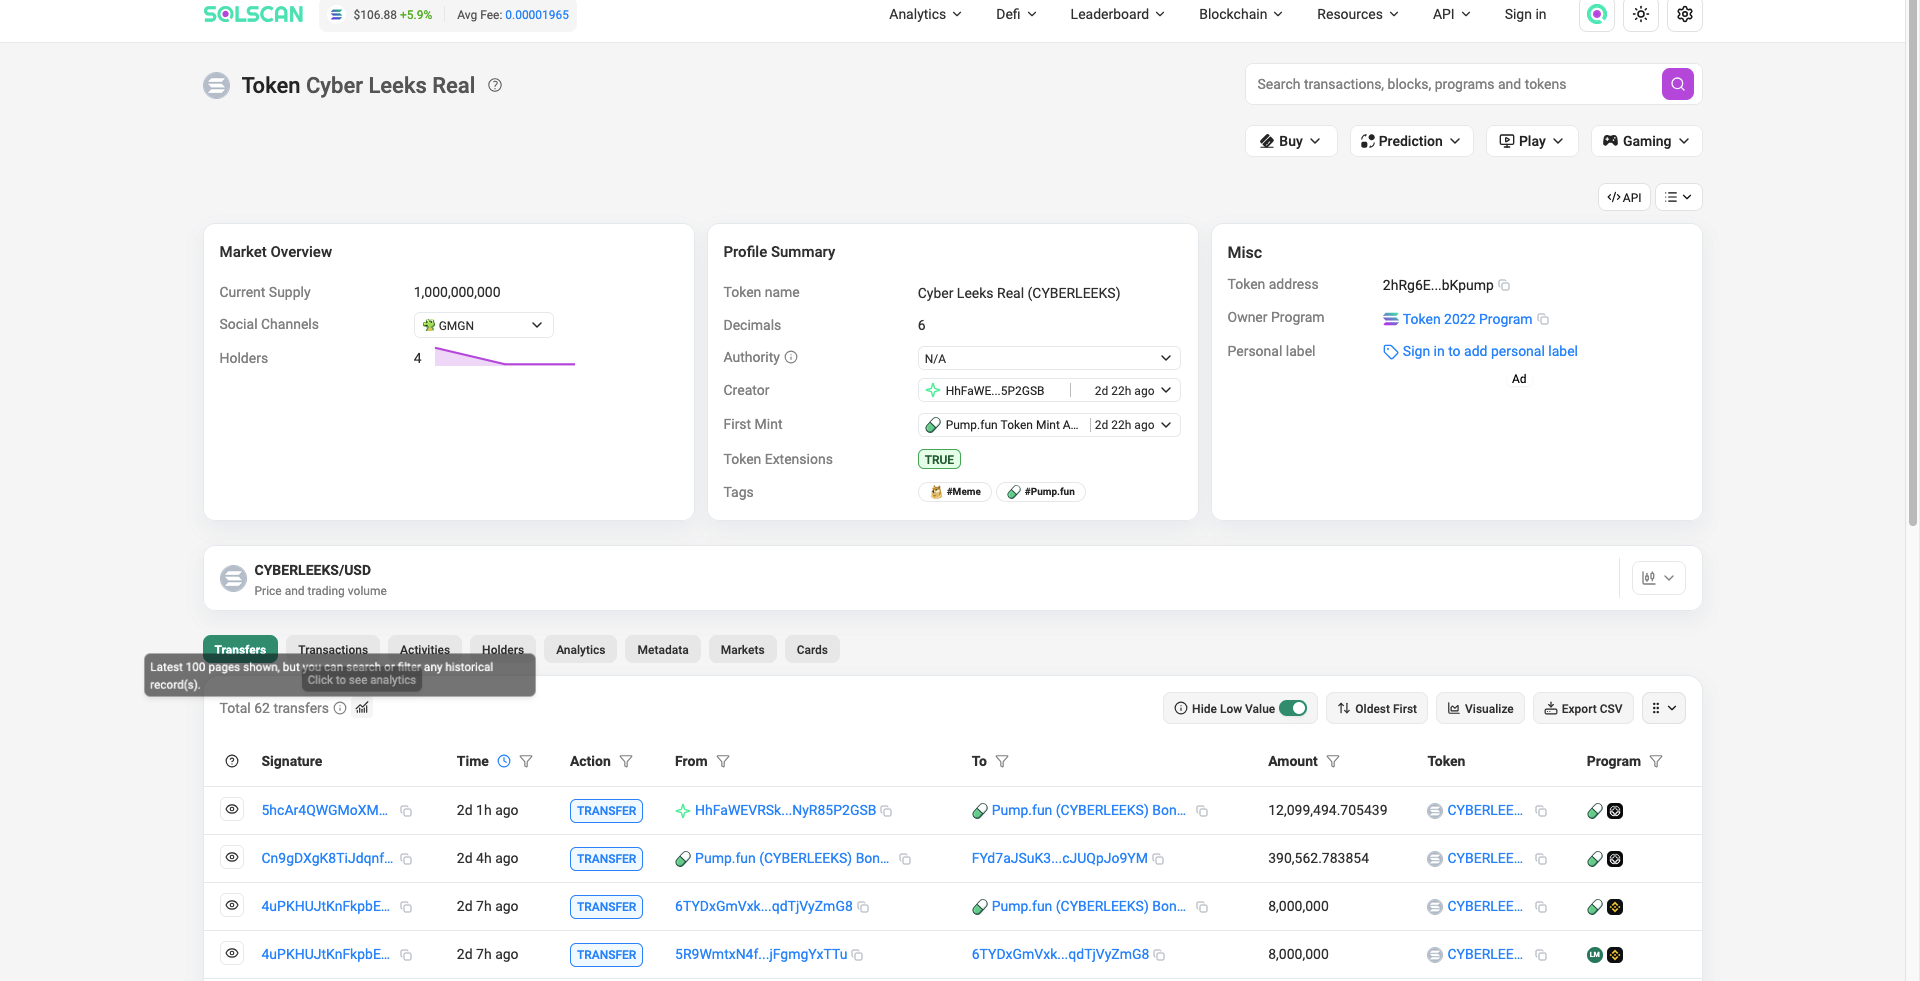
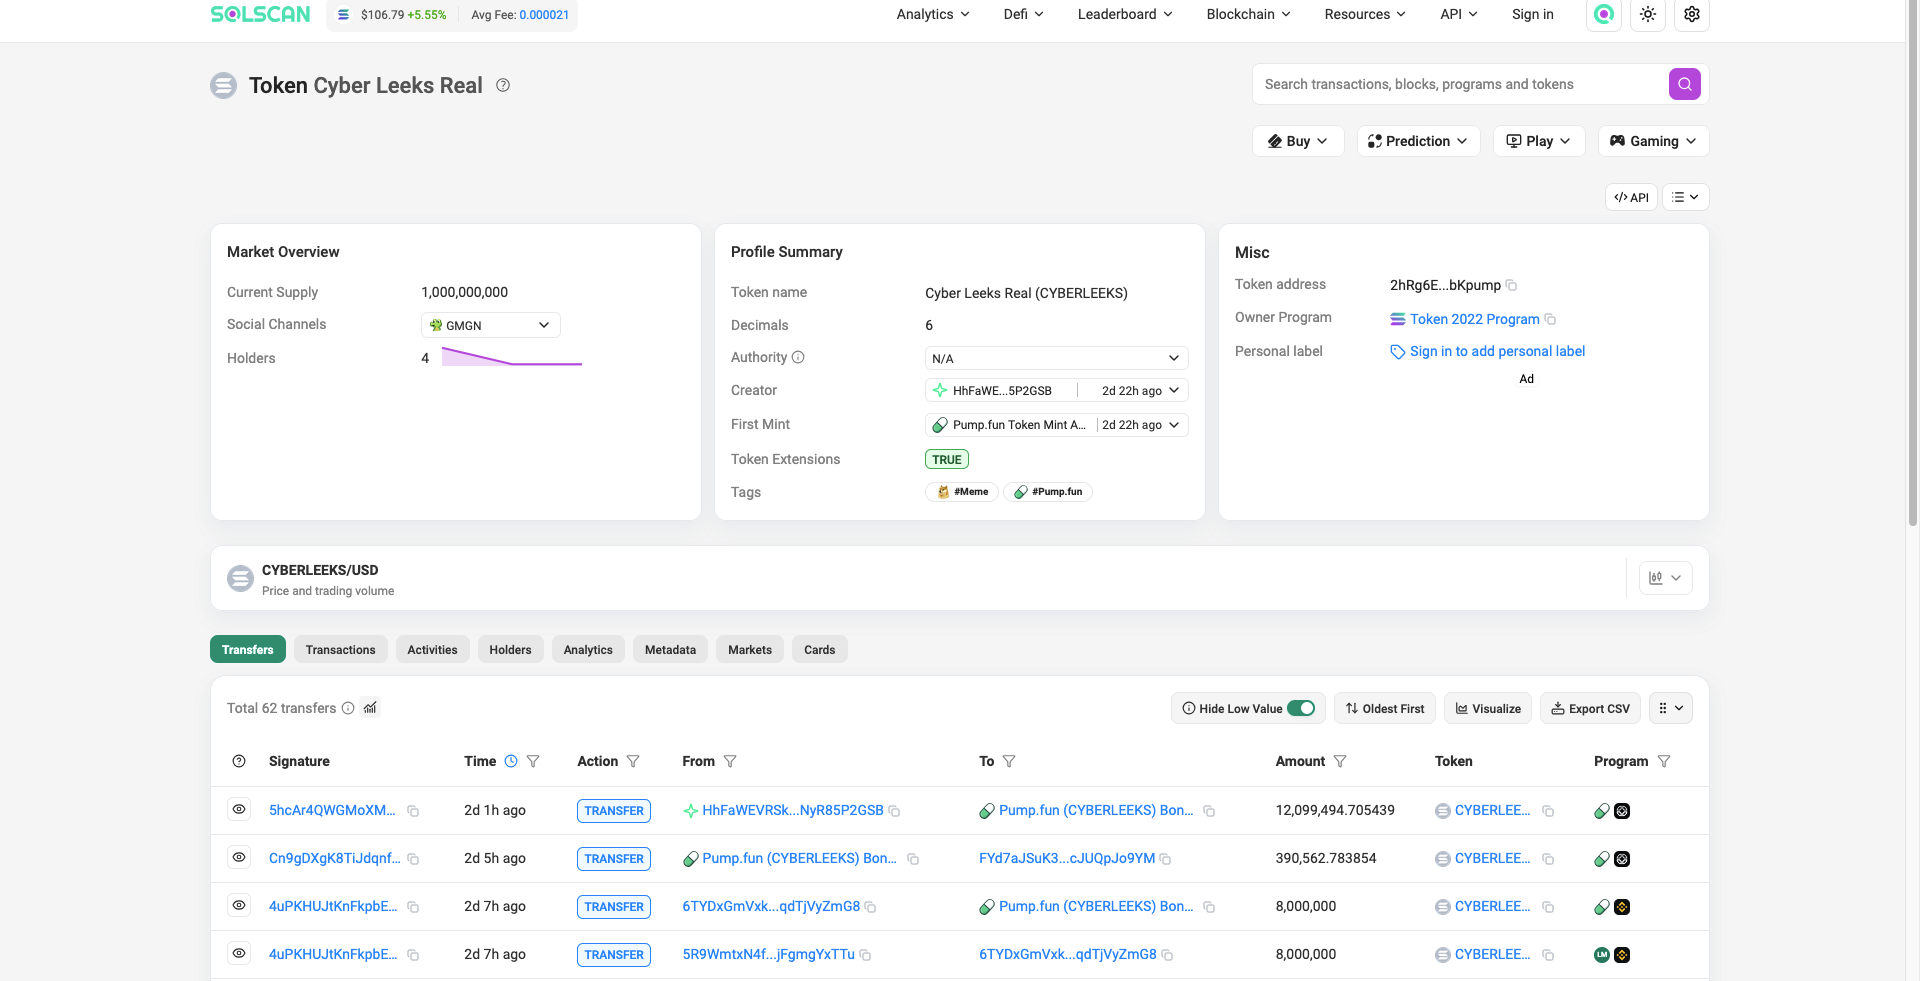
crypto: correct money trail to on-chain evidence (CoW DEX swap, not Base bridge); refresh token screenshot; clean infra recon note; rebuild evidence manifest

diff --git a/crypto/README.md b/crypto/README.md
@@ -49,17 +49,23 @@ The cash-out signal that is impossible to fake is the account nonce
 (`eth_getTransactionCount`): when it increments, the wallet has sent a
 transaction. Watching the nonce is how the live cash-out was caught.
 
-**5. USDC and the bridge to Base.**
-On Ethereum the proceeds are converted to USDC and bridged to the Base
-network (Ethereum L2).
+**5. Convert and swap on Ethereum (USDC via CoW Protocol).**
+On Ethereum the proceeds are consolidated into `0xbb22f5c5...` and moved
+between ETH and USDC. On **2026-08-27T06:36Z** the wallet routed
+**1,051.59 USDC** into **CoW Protocol**, a DEX aggregator (settlement
+contract `0x9008D19f58AAbD9eD0D60971565AA8510560ab41`), swapping it
+on-chain. A DEX batch-auction swap breaks the direct input-to-output link
+by design, so what comes out, and whether it stays on Ethereum or is
+routed onward, is not determinable from the deposit alone.
 
 **6. The wall.**
-On Base the funds enter shared custodial payment infrastructure
-(automated x402 / Coinbase-style payment rails). At that point they mix
-with large volumes of unrelated traffic and can no longer be followed
-individually from public data. This is the honest limit of an outside
-trace. Note it, do not fake past it. The identity is now inside a
-custodian's private records, not on the ledger.
+After the DEX swap the individual trail goes cold from public data. At
+collection, `0xbb22f5c5...` still held 0.877 ETH and `0x8bEe4D7b...` was
+drained (nonce 18). What comes out of a batch-auction DEX swap is not
+linkable to the input from the ledger alone, and whatever exchange or
+custodian the operator ultimately cashes out to holds the identity in its
+private records. This is the honest limit of an outside trace. Note it,
+do not fake past it.
 
 ## Flow diagram
 
@@ -67,9 +73,8 @@ custodian's private records, not on the ledger.
 flowchart TD
     A["CYBERLEEKS token (Solana)<br/>2hRg6E...Kpump"] -->|peel chain| B["intermediate wallets"]
     B -->|"swap order 03772c77<br/>SOL to ETH"| C["ETH cash-out wallets<br/>0xbb22f5c5... / 0x8bEe4D7b..."]
-    C -->|convert to USDC| D["USDC on Ethereum"]
-    D -->|bridge| E["Base network"]
-    E --> F["shared custodial payment infrastructure<br/>trace ends: private records"]
+    C -->|"convert ETH / USDC"| D["USDC + ETH consolidated<br/>0xbb22f5c5..."]
+    D -->|"CoW Protocol DEX swap<br/>2026-08-27 · 1,051 USDC"| E["trail goes cold<br/>output not linkable · identity in custodian records"]
 ```
 
 ## Indicators
@@ -80,8 +85,9 @@ flowchart TD
 | Token deployer wallet | `HhFaWEVRSktrUo3TnUdVrDmE6LHbkEi5rwNyR85P2GSB` |
 | ETH cash-out wallet | `0xbb22f5c5e6e3086c248d80929b03b157a90381a8` |
 | ETH cash-out wallet | `0x8bEe4D7bDaa37fb57aAC98cA9B50fF52117123A0` |
-| Swap service order reference | `03772c77` |
-| Bridge target | Base (Ethereum L2) |
+| Swap service order reference (SOL to ETH) | `03772c77` |
+| USDC contract | `0xA0b86991c6218b36c1d19D4a2e9Eb0cE3606eB48` |
+| DEX swap venue (USDC out) | CoW Protocol `0x9008D19f58AAbD9eD0D60971565AA8510560ab41` |
 
 ## Reproduce it
 
@@ -100,9 +106,8 @@ Ethereum cash-out signal (nonce) and balance:
 The custodians in the path keep records that tie these deposits to an
 account, which is where the money connects to a person:
 
-- the swap service behind order `03772c77`
-- the bridge used to move funds to Base
-- the Base payment / custodial services that received the USDC
+- the swap service behind order `03772c77` (the SOL to ETH conversion)
+- the exchange or custodian where the ETH / USDC is ultimately cashed to fiat
 
 These are the useful subpoena targets. They are not public and are not
 listed here.
@@ -110,7 +115,7 @@ listed here.
 ## Confidence and limits
 
 The Ethereum-side facts are directly verifiable on-chain: the funding
-between the two cash-out wallets, the move into USDC, and the
+between the two cash-out wallets, the USDC consolidation and the CoW Protocol swap, and the
 nonce/balance state are all anchored below with transaction hashes.
 
 The Solana-to-Ethereum hop is different. A swap service breaks the public
@@ -131,7 +136,7 @@ Raw on-chain pulls and a SHA256 manifest are in [`evidence/`](evidence/):
 - `SHA256SUMS.txt` - SHA256 of every file (chain of custody)
 
 Collected (UTC): 2026-08-27T19:38Z
[2 lines of base64/hex data omitted]
 
 Verify:
 
@@ -140,5 +145,5 @@ Verify:
 ### Sample anchors (full list in evidence/)
 
[3 lines of base64/hex data omitted]
 - point-in-time at collection: `0xbb22f5c5...` nonce 3 / 0.877 ETH; `0x8bEe4D7b...` nonce 18 / ~0 ETH (drained)

diff --git a/infrastructure/README.md b/infrastructure/README.md
@@ -56,8 +56,8 @@ money trace in [`crypto/`](../crypto/) references `2hRg6...`.
 
 Raw lookups:
 
-- [`recon/dns-cert-recon.txt`](recon/dns-cert-recon.txt) - first collection, 2026-08-27.
[1 lines of base64/hex data omitted]
+- [`recon/dns-cert-recon.txt`](recon/dns-cert-recon.txt) - first collection (2026-08-27); carries the Certificate Transparency cert data.
[1 lines of base64/hex data omitted]
 
 ### Media delivery and anti-recon
 
@@ -106,7 +106,7 @@ run by a real company that keeps billing and account records.
 3. **Origin host.** InterServer (US) runs that server and holds the hosting account and payment method behind it.
 4. **Content distribution.** The leak videos are served from a second InterServer host (`media.cyber-leek.com`, `69.10.50.177`) that refuses direct requests, and are mirrored on Arweave (`cyberleek.ar.io`, `turbo-gateway` fallback) via ArDrive / Turbo - the Arweave uploads are paid for, with the paying wallet and receipt on record.
 5. **The token.** Launched on pump.fun (Solana), traded on Raydium / Jupiter, tracked on DexScreener.
-6. **The money.** Collected on Solana, peeled through intermediate wallets, swapped to ETH (order `03772c77`), bridged to Base, into shared custodial payment infrastructure. See [`crypto/`](../crypto/).
+6. **The money.** Collected on Solana, peeled through intermediate wallets, swapped to ETH (order `03772c77`), then consolidated and swapped again via CoW Protocol on Ethereum, after which the individual trail goes cold from public data. See [`crypto/`](../crypto/).
 
 **Why it's hard to track from the outside:**
 

diff --git a/EVIDENCE.md b/EVIDENCE.md
@@ -9,7 +9,7 @@ link prove existence and integrity without redistribution.
 
 | Artifact | SHA256 | Collected (UTC) |
 | --- | --- | --- |
[2 lines of base64/hex data omitted]
 
 Solana and Ethereum data is public and re-pullable. The package holds the
 raw pulls plus a per-file SHA256 manifest; regenerate any time.
@@ -22,7 +22,7 @@ raw pulls plus a per-file SHA256 manifest; regenerate any time.
[5 lines of base64/hex data omitted]
 
 ## Infrastructure recon
 
